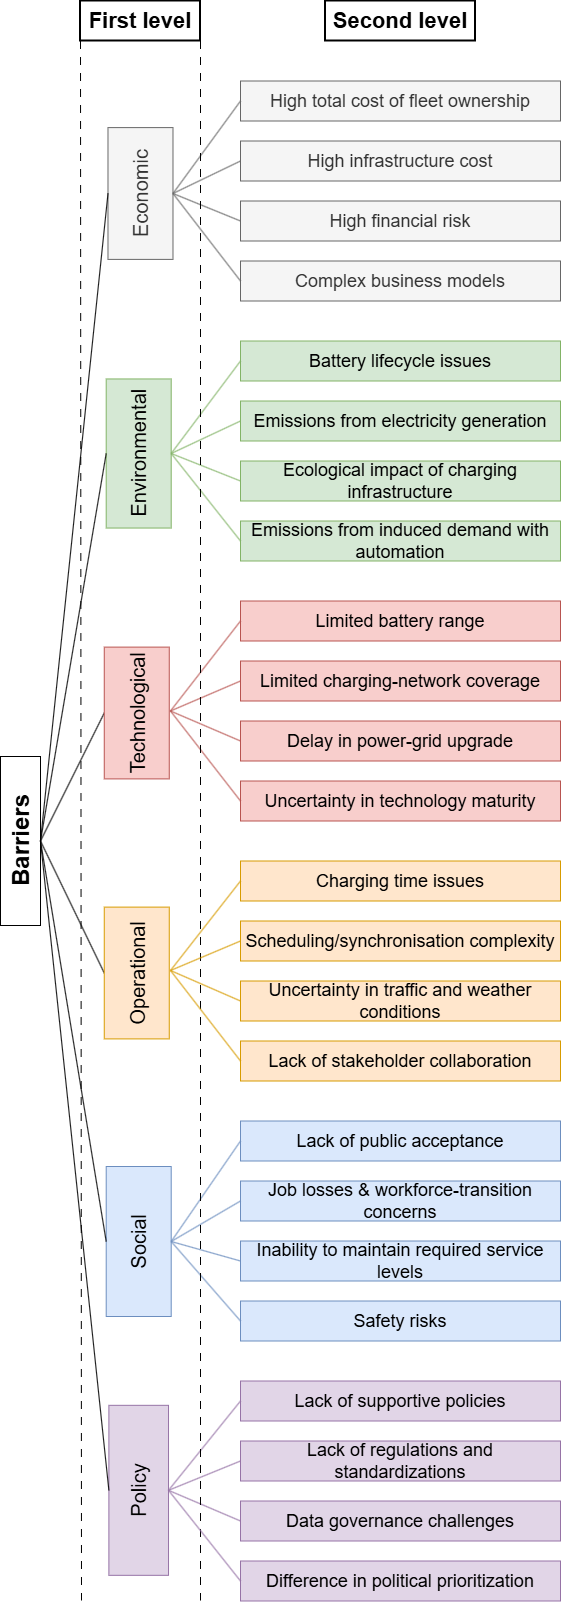
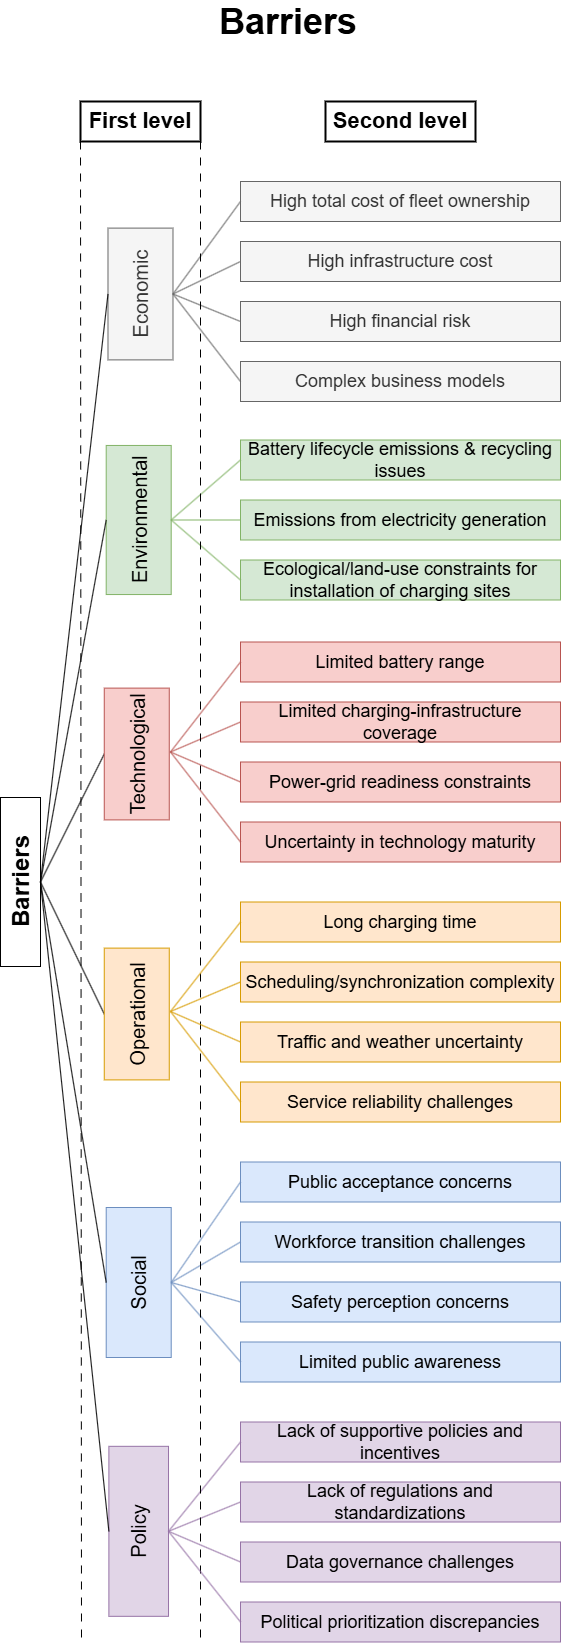
Add files via upload

diff --git a/index.html b/index.html
@@ -669,7 +669,6 @@
                     <label>Highest Education Level <span class="required">*</span></label>
                     <select id="demo-education" required onchange="toggleEducationOther()">
                         <option value="">-- Select --</option>
-                        <option value="High School">High School</option>
                         <option value="Bachelor's">Bachelor's Degree</option>
                         <option value="Master's">Master's Degree</option>
                         <option value="PhD">PhD / Doctorate</option>
@@ -686,7 +685,7 @@
 
             <div class="form-group" id="fg-country">
                 <label>Country <span class="required">*</span></label>
-                <input type="text" id="demo-country" placeholder="Country of evaluation" required>
+                <input type="text" id="demo-country" placeholder="Country of residence" required>
             </div>
 
             <div class="form-group" id="fg-expertise">
@@ -763,26 +762,25 @@
             'High infrastructure cost': 'Extensive capital is required for charging stations, grid upgrades, and electric road systems, creating major cost burdens especially for long-haul routes and small operators.',
             'High financial risk': 'Volatile freight demand undermines investment recovery for electric and automated trucks, which depend on high utilization. Low use of costly charging infrastructure increases financial risk, while broader economic uncertainty deters capital-constrained carriers and slows scalable deployment.',
             'Complex business models': 'Complex and unstandardized business models create financial uncertainty in electrified and automated freight. Ambiguous cost–benefit allocation in collaborative schemes (e.g., platooning) and limited research on leasing or sharing models hinder capital mitigation.',
-            'Battery lifecycle issues': 'Battery reliance on scarce minerals (lithium, cobalt, nickel) drives supply risks and extraction impacts. Energy-intensive manufacturing raises initial GHG emissions and material demand. Weak recycling and disposal systems heighten pollution and resource losses.',
+            'Battery lifecycle emissions & recycling issues': 'Battery reliance on scarce minerals (lithium, cobalt, nickel) drives supply risks and extraction impacts. Energy-intensive manufacturing raises initial GHG emissions and material demand. Weak recycling and disposal systems heighten pollution and resource losses.',
             'Emissions from electricity generation': 'Environmental gains from electric freight depend on the grid\'s carbon intensity, shifting emissions from tailpipes to power generation. BEV benefits materialize only with low-carbon or renewable electricity. Carbon-intensive grids can negate reductions and increase SO₂ and PM₂.₅ from power plants.',
-            'Ecological impact of charging infrastructure': 'ERS infrastructure adds significant material and ecological burdens. High metal use (e.g., copper) drives extraction toxicity. Large installations increase land-use. Studies often omit these impacts. Protective zones, permissions, noise protection zones are additional considerations.',
-            'Emissions from induced demand with automation': 'Automation may increase overall freight demand and vehicle miles traveled, potentially offsetting environmental benefits from electrification.',
+            'Ecological/land-use constraints for installation of charging sites': 'ERS infrastructure adds significant material and ecological burdens. High metal use (e.g., copper) drives extraction toxicity. Large installations increase land-use. Studies often omit these impacts. Protective zones, permissions, noise protection zones are additional considerations.',
             'Limited battery range': 'Limited battery range in electric freight necessitates large, costly, and heavy battery packs, raising purchase costs, increasing TCO, inducing range anxiety, and reducing payload capacity, which can require larger fleets.',
-            'Limited charging-network coverage': 'Sparse, uneven, and low-capacity charging networks hinder electric freight, limiting long-haul viability, and reducing operational flexibility. Insufficient public charging for on-route needs discourages adoption, reinforcing a "chicken-and-egg" cycle that delays infrastructure investment.',
-            'Delay in power-grid upgrade': 'Insufficient power-grid upgrades hinder large-scale electric freight, as fleet charging creates major peak loads requiring costly and slow infrastructure expansion. High upgrade costs and risks of overload discourage adoption, delaying reliable high-power charging deployment.',
+            'Limited charging-infrastructure coverage': 'Sparse, uneven, and low-capacity charging networks hinder electric freight, limiting long-haul viability, and reducing operational flexibility. Insufficient public charging for on-route needs discourages adoption, reinforcing a "chicken-and-egg" cycle that delays infrastructure investment.',
+            'Power-grid readiness constraints': 'Insufficient power-grid upgrades hinder large-scale electric freight, as fleet charging creates major peak loads requiring costly and slow infrastructure expansion. High upgrade costs and risks of overload discourage adoption, delaying reliable high-power charging deployment.',
             'Uncertainty in technology maturity': 'Uncertain availability of electric and autonomous truck technologies delays investment decisions. Competing pathways (BEVs, fuel cells, ERS) and unclear deployment timelines for driverless systems increase risk. Limited data on CAV performance reinforces hesitation, leading operators to avoid long-term commitments to immature technologies.',
-            'Charging time issues': 'Slow charging times reduce vehicle availability and disrupt delivery schedules, with congestion at peak hours further delaying operations, especially for heavy-duty trucks.',
-            'Scheduling/synchronisation complexity': 'Rigid delivery schedules conflict with cost-efficient off-peak charging. Solving joint routing–charging problems is computationally complex, and autonomous systems add further coordination challenges, especially for platoon synchronization.',
-            'Uncertainty in traffic and weather conditions': 'ADS struggle in complex traffic and adverse weather, undermining reliability and trust, while low temperatures reduce EV range and unpredictable congestion disrupts scheduling.',
-            'Lack of stakeholder collaboration': 'Misaligned priorities and unclear roles among OEMs, logistics operators, utilities, and governments hinder coordinated investment in charging, grid upgrades, and digital infrastructure.',
-            'Lack of public acceptance': 'Low public acceptance delays electrified and automated freight, driven by safety concerns, distrust of autonomous systems, and fear of cyber risks. Limited awareness of benefits and resistance among drivers further hinder adoption, while weak trust slows supportive policy and investment.',
-            'Job losses & workforce-transition concerns': 'Automation raises fears of job losses and downgraded work quality, especially for long-distance drivers, reducing acceptance. The shift toward technical roles demands new skills, but limited reskilling programs and an aging workforce intensify resistance and slow adoption.',
-            'Inability to maintain required service levels': 'Unproven reliability of electric and autonomous systems threatens service levels required in freight, which operates within rigid time-windows and narrow margins.',
-            'Safety risks': 'Safety concerns for electric freight focus on battery fire and explosion risks, while autonomous systems face distrust over unexpected failures and high cybersecurity vulnerability.',
-            'Lack of supportive policies': 'Weak policy support and limited public financial incentives hinders electrified and automated freight by deterring investment in costly vehicles, charging, and grid upgrades.',
+            'Long charging time': 'Slow charging reduce vehicle availability and disrupt delivery schedules, with congestion at peak hours further delaying operations, especially for heavy-duty trucks.',
+            'Scheduling/synchronization complexity': 'Rigid delivery schedules conflict with cost-efficient off-peak charging. Solving joint routing–charging problems is computationally complex, and autonomous systems add further coordination challenges, especially for platoon synchronization.',
+            'Traffic and weather uncertainty': 'ADS struggle in complex traffic and adverse weather, undermining reliability and trust, while low temperatures reduce EV range and unpredictable congestion disrupts scheduling.',
+            'Service reliability challenges': 'Unproven reliability of electric and autonomous systems threatens service levels required in freight, which operates within rigid time-windows and narrow margins.',
+            'Public acceptance concerns': 'Public skepticism stalls adoption of electrified and automated freight. This reluctance extends to key stakeholders, where misaligned priorities among OEMs, logistics operators, utilities, and governments impede coordinated investment in enabling infrastructure.',
+            'Workforce transition challenges': 'Automation raises fears of job losses and downgraded work quality, especially for long-distance drivers, reducing acceptance. The shift toward technical roles demands new skills, but limited reskilling programs and an aging workforce intensify resistance and slow adoption.',
+            'Safety perception concerns': 'Safety concerns for electric freight focus on battery fire and explosion risks, while autonomous systems face distrust over unexpected failures and high cybersecurity vulnerability.',
+            'Limited public awareness': 'Insufficient understanding of automated and electric freight technologies, combined with low awareness of their benefits and resistance among drivers, constrains public acceptance and slows adoption.',
+            'Lack of supportive policies and incentives': 'Weak policy support and limited public financial incentives hinder electrified and automated freight by deterring investment in costly vehicles, charging, and grid upgrades.',
             'Lack of regulations and standardizations': 'Fragmented legal frameworks and standards for interoperability create investment uncertainty for electrified and automated freight. Ambiguous rules and unclear liability force costly human supervision, limiting autonomous benefits. Cross-border regulatory inconsistency adds complexity.',
             'Data governance challenges': 'Weak data governance and privacy concerns hinder collaboration and scalable connected operations, slowing market deployment.',
-            'Difference in political prioritization': 'Divergent political priorities across different territories slow electrified and automated freight.'
+            'Political prioritization discrepancies': 'Divergent political priorities across different territories slow electrified and automated freight.'
         };
 
         const surveyData = {
@@ -798,27 +796,27 @@
             },
             environmental: {
                 title: "Environmental Barriers",
-                items: ['Battery lifecycle issues', 'Emissions from electricity generation', 'Ecological impact of charging infrastructure', 'Emissions from induced demand with automation'],
+                items: ['Battery lifecycle emissions & recycling issues', 'Emissions from electricity generation', 'Ecological/land-use constraints for installation of charging sites'],
                 hasDescriptions: true
             },
             technological: {
                 title: "Technological Barriers",
-                items: ['Limited battery range', 'Limited charging-network coverage', 'Delay in power-grid upgrade', 'Uncertainty in technology maturity'],
+                items: ['Limited battery range', 'Limited charging-infrastructure coverage', 'Power-grid readiness constraints', 'Uncertainty in technology maturity'],
                 hasDescriptions: true
             },
             operational: {
                 title: "Operational Barriers",
-                items: ['Charging time issues', 'Scheduling/synchronisation complexity', 'Uncertainty in traffic and weather conditions', 'Lack of stakeholder collaboration'],
+                items: ['Long charging time', 'Scheduling/synchronization complexity', 'Traffic and weather uncertainty', 'Service reliability challenges'],
                 hasDescriptions: true
             },
             social: {
                 title: "Social Barriers",
-                items: ['Lack of public acceptance', 'Job losses & workforce-transition concerns', 'Inability to maintain required service levels', 'Safety risks'],
+                items: ['Public acceptance concerns', 'Workforce transition challenges', 'Safety perception concerns', 'Limited public awareness'],
                 hasDescriptions: true
             },
             policy: {
                 title: "Policy Barriers",
-                items: ['Lack of supportive policies', 'Lack of regulations and standardizations', 'Data governance challenges', 'Difference in political prioritization'],
+                items: ['Lack of supportive policies and incentives', 'Lack of regulations and standardizations', 'Data governance challenges', 'Political prioritization discrepancies'],
                 hasDescriptions: true
             }
         };
